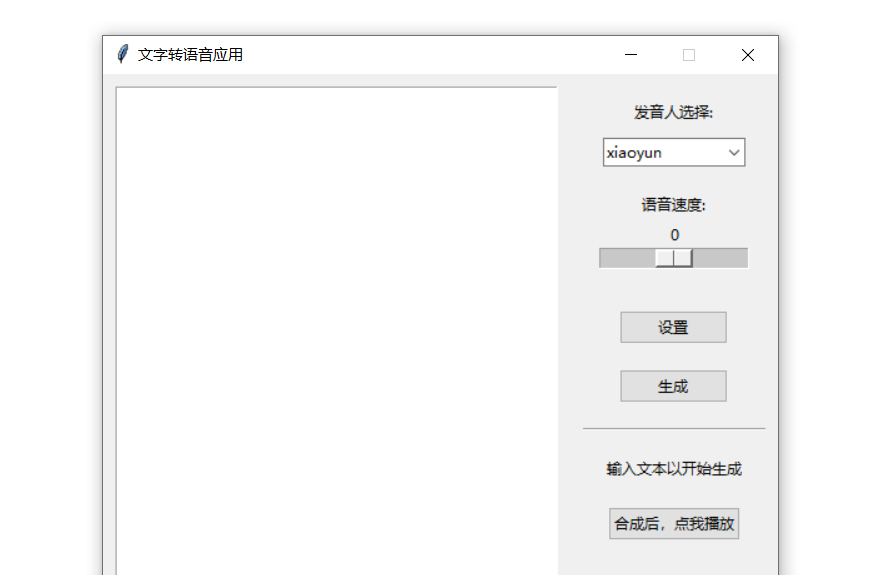
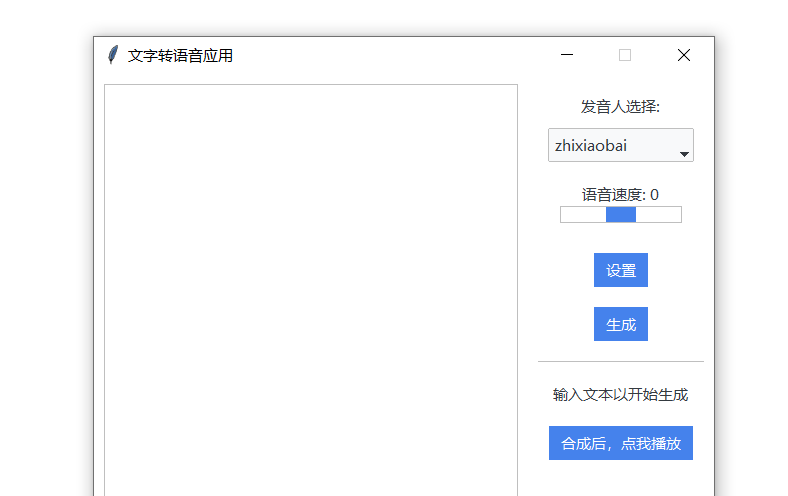
配置DPI，适配高分辨率界面

Changed region(s): [[0.0914, 0.0605, 0.9137, 1.0]]

diff --git a/main.py b/main.py
@@ -1,5 +1,6 @@
 import os
 import json
+import ctypes
 import subprocess
 import tkinter as tk
 from datetime import datetime
@@ -20,6 +21,13 @@ class TextToSpeechApp:
         # 屏幕的宽度和高度
         start_x = (self.window.winfo_screenwidth() - 500) // 2
         self.window.geometry(f"+{start_x}+50")
+
+        # 设置高DPI
+        # 调用api设置成由应用程序缩放
+        ctypes.windll.shcore.SetProcessDpiAwareness(1)
+        # 调用api获得当前的缩放因子
+        ScaleFactor = ctypes.windll.shcore.GetScaleFactorForDevice(0)
+        self.window.tk.call("tk", "scaling", ScaleFactor / 75)
 
         # 创建图形用户界面元素
         self.text_input = tk.Text(self.window, height=50, width=50)  # 文本输入框

diff --git a/setting_gui.py b/setting_gui.py
@@ -26,7 +26,7 @@ class SettingsWindow:
         self.window = tk.Toplevel(parent)
         self.window.title("设置")
         # 设置窗口最小尺寸
-        self.window.minsize(300, 350)
+        self.window.minsize(300, 380)
         x = parent.winfo_x() + 90
         y = parent.winfo_y() + 200
         self.window.geometry(f"300x260+{x}+{y}")
